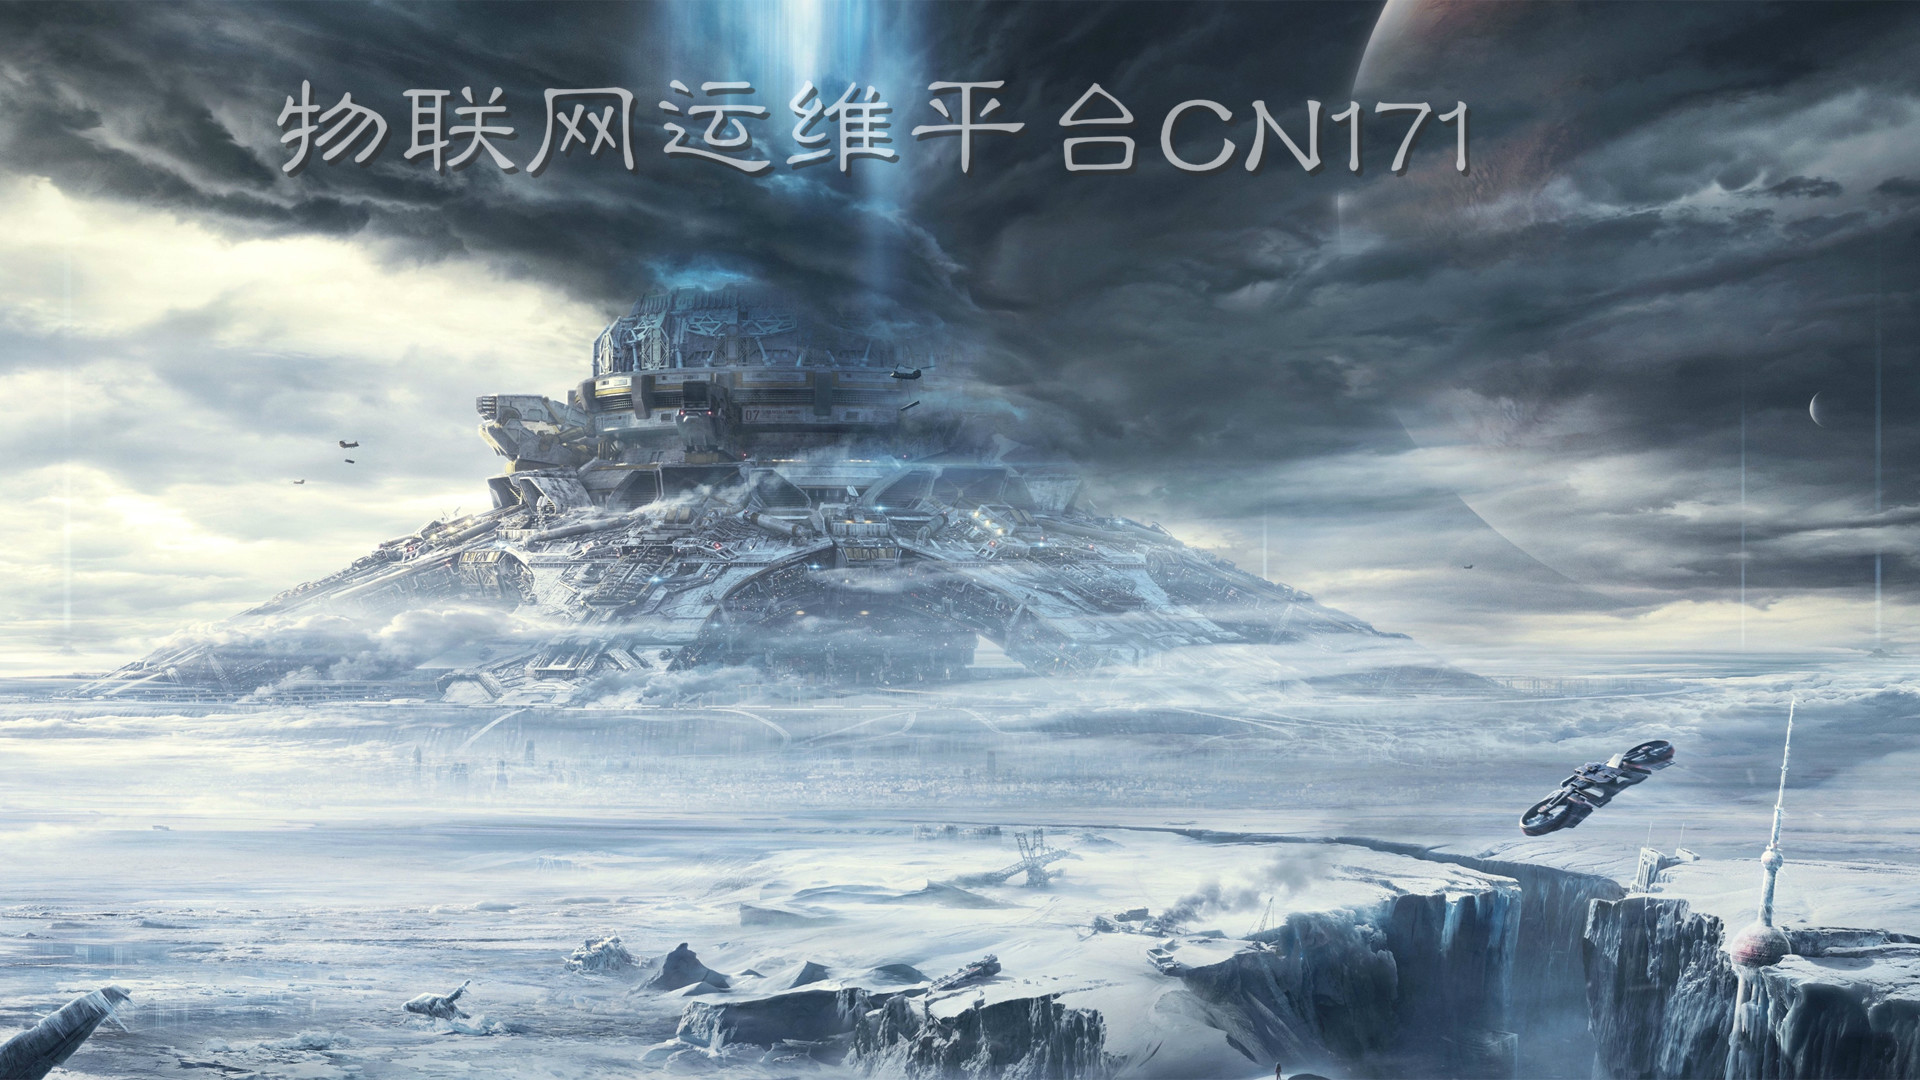
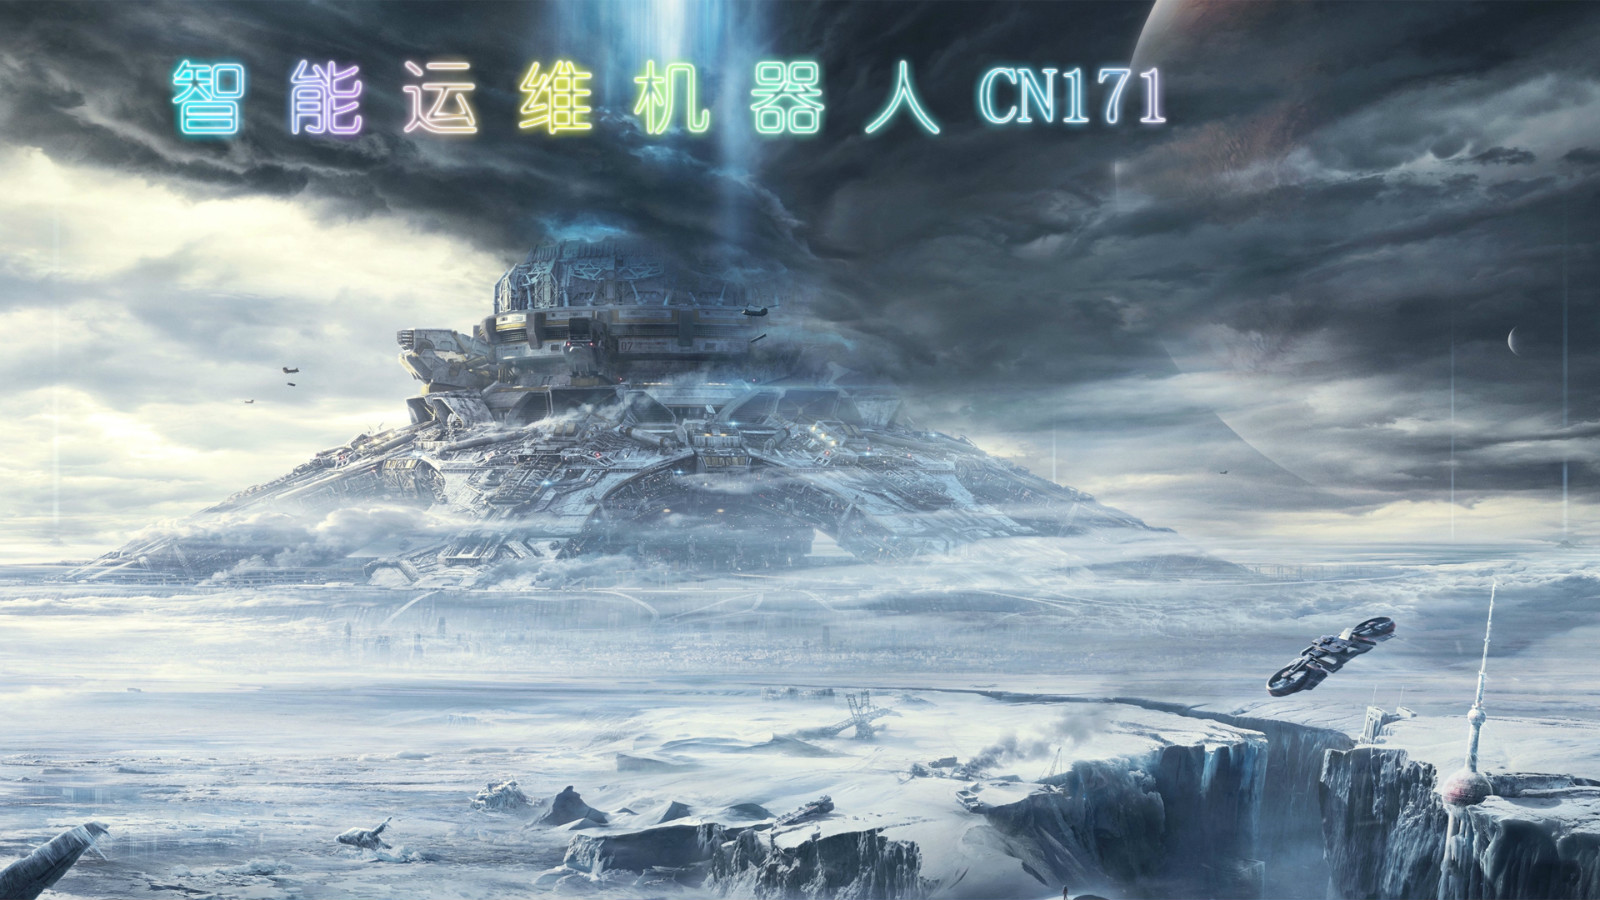
修改系统名称、登陆页面背景图

Changed region(s): [[0.0938, 0.0622, 0.7812, 0.1556]]

diff --git a/templates/config/config_management.html b/templates/config/config_management.html
@@ -3,17 +3,6 @@
     <script src="/static/layer/layer.js"></script>
 {% endblock %}
 {% block content %}
-<script>
-    window.onload=init;
-    function init() {
-        showhide(7);
-    }
-    function showhide(n) {
-        var box = document.getElementById("config");
-        box.className="active";
-    }
-</script>
-
 
 <div class="content-wrapper">
     <!-- Content Header (Page header) -->
@@ -24,115 +13,52 @@
     <!-- Main content -->
     <section class="content">
         <div id="dialog">
-        <div class="box">
-            <form class="form-horizontal" action="" method="POST">
-                <div class="box-body">
-                  <span><b>脚本路径设置</b></span>
-                <div class="form-group">
-                  <label for="ansible_path" class="col-sm-2 control-label">Ansible路径:</label>
-
-                  <div class="col-sm-10">
-                      <input type="text" value="/adf/asdf" id="ansible_path" name="ansible_path" style="width:450px;">
-                  </div>
-                </div>
-                <div class="form-group">
-                  <label for="roles_path" class="col-sm-2 control-label">Roles路径:</label>
-
-                  <div class="col-sm-10">
-                      <input type="text" value="/asdfasd/sdfasd" id="roles_path" name="roles_path" style="width:450px;">
-                  </div>
-                </div>
-                <div class="form-group" >
-                  <label for="pbook_path" class="col-sm-2 control-label">playbook路径:</label>
-
-                  <div class="col-sm-10" >
-                    <input type="text" value="/sadf/sdf" id="pbook_path" name="pbook_path" style="width:450px;">
-                  </div>
-                </div>
-                <div class="form-group">
-                  <label for="scripts_path" class="col-sm-2 control-label">Scripts路径:</label>
-
-                  <div class="col-sm-10">
-                    <input type="text" value="/sdfs/asdf" id="scripts_path" name="scripts_path" style="width:450px;">
-                  </div>
-                </div>
-                <hr>
-                  <p><b>数据库设置</b></p>
-                <div class="form-group">
-                  <label for="engine" class="col-sm-2 control-label">Host:</label>
-
-                  <div class="col-sm-10">
-                    <input type="text" value="主机A" id="engine" name="engine" style="width:450px;">
-                  </div>
-                </div>
-                <div class="form-group">
-                  <label for="host" class="col-sm-2 control-label">Port:</label>
-
-                  <div class="col-sm-10">
-                    <input type="text" value="12434" id="host" name="host" style="width:450px;">
-                  </div>
-                </div>
-                <div class="form-group">
-                  <label for="user" class="col-sm-2 control-label">User:</label>
-
-                  <div class="col-sm-10">
-                    <input type="text" value="Tom" id="user" name="user" style="width:450px;">
-                  </div>
-                </div>
-                <div class="form-group">
-                  <label for="password" class="col-sm-2 control-label">Password:</label>
-
-                  <div class="col-sm-10">
-                    <input type="password" value="*****" id="password" name="password" style="width:450px;">
-                  </div>
+            <div class="box">
+                <form class="form-horizontal" action="" method="POST">
+                    <div class="box-body">
+                        {% for section in sectionlist %}
+                            <span><b>{{section}}</b></span>
+                            {% for item in items %}
+                                <div class="form-group">
+                                    <label class="col-sm-2 control-label">{{item}}</label>
+                                </div>
+                            {% endfor %}
+<!--                            <div class="form-group">-->
+<!--                                <label for="ansible_path1" class="col-sm-2 control-label">Ansible路径:</label>-->
+<!--                                <div class="col-sm-10">-->
+<!--                                    <input type="text" value="/adf/asdf" id="ansible_path1" name="ansible_path" style="width:650px;">-->
+<!--                                </div>-->
+<!--                            </div>-->
+                        {% endfor %}
                     </div>
-              <!-- /.box-body -->
-              <div class="box-footer">
-                  <button type="submit" onclick="checkSubmit()" class="btn btn-info pull-left" style="width: 120px"><b>保存（save）</b></button>
-                  <div class="btn btn-info pull-left" style="width: 120px" onclick="return test1();"><b>重启（CN171）</b></div>
-              </div>
-              <!-- /.box-footer -->
+                    <!-- /.box-body -->
+
+                    <div class="box-footer">
+                        <div class="btn-group">
+                            <a id="save" style="width: 150px" href="#" class="btn btn-info" onclick="saveSubmit()">保&nbsp;&nbsp;&nbsp;&nbsp;&nbsp;&nbsp;&nbsp;存</a>
+                        </div>  &nbsp;  &nbsp;  &nbsp;  &nbsp;
+                        <div class="btn-group">
+                            <a id="restart" style="width: 150px" href="#" class="btn btn-warning" onclick="restart()">重&nbsp;&nbsp;&nbsp;&nbsp;&nbsp;&nbsp;&nbsp;启（CN171）</a>
+                        </div>
+                    </div>
+                    <!-- /.box-footer -->
+                </form>
+                <div class="form-group">
+
                 </div>
-            </form>
-        <div class="form-group">
+            </div>
         </div>
-
-</div>
-</div>
-
     </section>
         <!-- /.content -->
-      </div>
-<script>
-function checkSubmit() {
-    if (!confirm("确定修改？")) {
-        window.event.returnValue = false;
-    }
-}
-</script>
-<script>
-function get_token() {
-    $.post('/config/token/',{csrfmiddlewaretoken: '{{ csrf_token }}'},function(data){
-        document.getElementById("token").value = data;
-    });
-}
-</script>
-<script>
-function loading(){
-    var index = layer.load(1, {
-    shade: [0.5,'#f4f4f4'] //0.1透明度的白色背景
+</div>
 
-});
-}
-function test1(){
-            $.ajax({
-                type: "get",
-                url: ""
-            });
-    var index = layer.load(1, {
-    shade: [0.5,'#f4f4f4'] //0.1透明度的白色背景
-});
-    location.reload();
-}
+
+<script>
+    function saveSubmit() {
+        if (!confirm("确定修改？")) {
+            window.event.returnValue = false;
+        }
+    }
 </script>
+
 {% endblock %}

diff --git a/templates/navi-header.html b/templates/navi-header.html
@@ -5,7 +5,7 @@
       <!-- mini logo for sidebar mini 50x50 pixels -->
       <span class="logo-mini"><b>CN171</b></span>
       <!-- logo for regular state and mobile devices -->
-      <span class="logo-lg"><b>物联网运维平台</b></span>
+      <span class="logo-lg"><b>智能运维机器人</b></span>
     </a>
 
     <!-- Header Navbar -->

diff --git a/templates/main-header.html b/templates/main-header.html
@@ -5,7 +5,7 @@
       <!-- mini logo for sidebar mini 50x50 pixels -->
       <span class="logo-mini">CN171</span>
       <!-- logo for regular state and mobile devices -->
-      <span class="logo-lg"><b>物联网运维平台</b></span>
+      <span class="logo-lg"><b>智能运维机器人</b></span>
     </a>
 
     <!-- Header Navbar -->

diff --git a/CN171_config/views.py b/CN171_config/views.py
@@ -1,7 +1,21 @@
+import os
 from django.shortcuts import render
+try:
+    import ConfigParser as cp
+except ImportError as e:
+    import configparser as cp
 
-# Create your views here.
+#读取配置文件
+BASE_DIR = os.path.dirname(os.path.dirname(os.path.abspath(__file__)))
+config = cp.ConfigParser()
+config.read(os.path.join(BASE_DIR, 'config/cn171.conf'),encoding='utf-8')
+
 
 def configManagement(request):
+    #获取配置文件中的sections
+    print(config.sections())
+    sectionlist = config.sections()
+    print(config.items(sectionlist[0]))
+    items = config.items(sectionlist[0])
 
     return render(request,"config/config_management.html",locals())

diff --git a/CN171/settings.py b/CN171/settings.py
@@ -33,7 +33,7 @@ SECRET_KEY = '42427w*ffn#8a&!@8bd*ia^j93&0$ufe#re*5dmt&&l^y-0jj5'
 SESSION_EXPIRE_AT_BROWSER_CLOSE = True
 
 #设置登陆超时时长（30分钟）
-SESSION_COOKIE_AGE = 60*30
+#SESSION_COOKIE_AGE = 60*60
 
 # SECURITY WARNING: don't run with debug turned on in production!
 DEBUG = True

diff --git a/CN171_config/urls.py b/CN171_config/urls.py
@@ -4,5 +4,5 @@ from CN171_config import views as configViews
 
 urlpatterns = [
 
-    url(r'^config_management/', configViews.configManagement, name='configManagement'),
+    url(r'^configmanagement/', configViews.configManagement, name='configManagement'),
 ]
